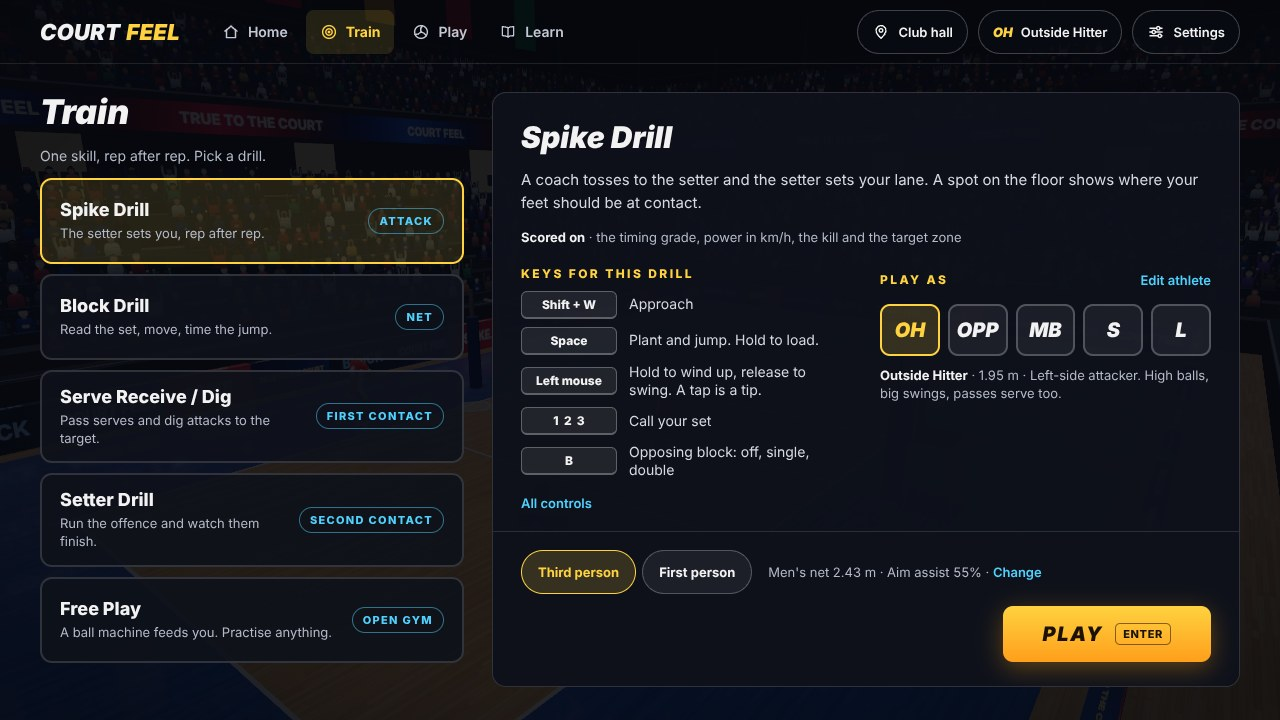
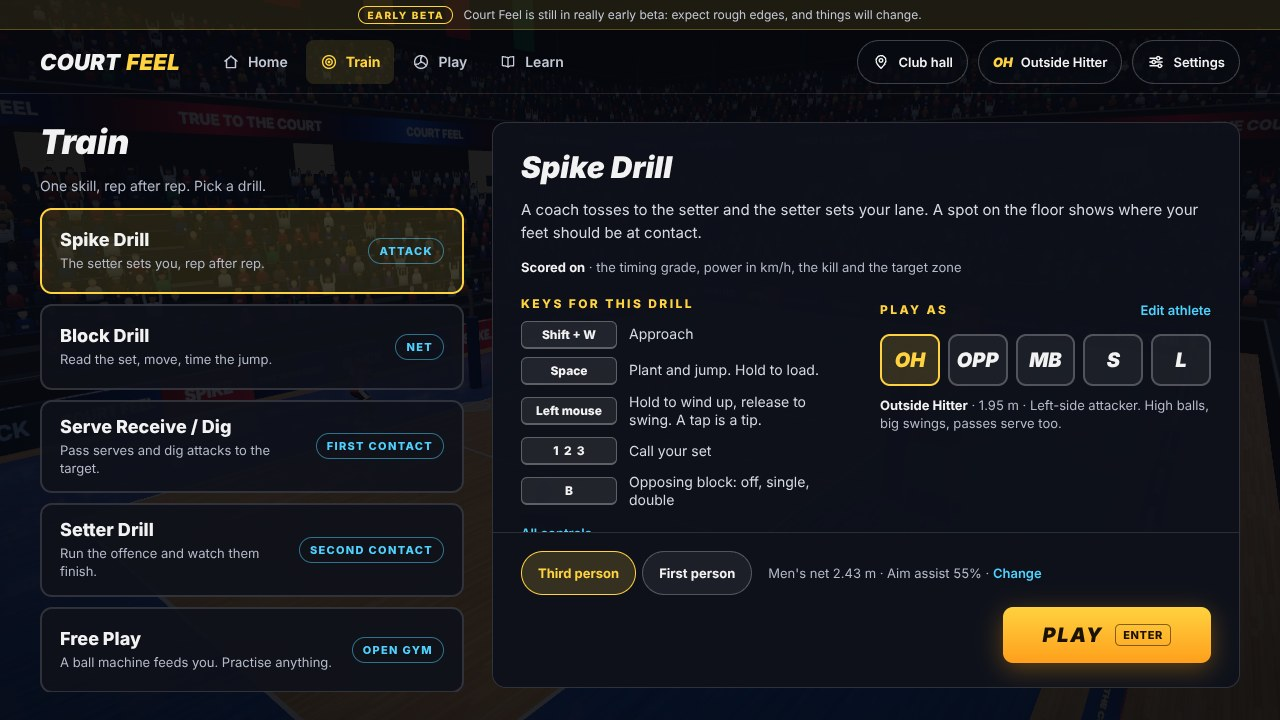
feat(start-screen): a strip across the top of the start screen says the game is in early beta
The start screen now opens with a thin gold-edged strip above the top bar:
EARLY BETA, then "Court Feel is still in really early beta: expect rough
edges, and things will change." It lives on the start screen only, so it is
never over a drill or the ball.

The e2e layout check now covers it at every phone and window size, the
start-screen feature map describes it, and the README's start-screen
screenshot is retaken with it.

Claude-Session: https://claude.ai/code/session_01UDovnHFEbJqPjLMn8NbVdb

diff --git a/src/ui/styles.css b/src/ui/styles.css
@@ -90,6 +90,11 @@ body.touchmode .set-row.only-tc { display: grid !important; }
 /* the notch and the home bar (index.html uses viewport-fit=cover) */
 .menu, .sheet { padding: env(safe-area-inset-top, 0px) env(safe-area-inset-right, 0px) env(safe-area-inset-bottom, 0px) env(safe-area-inset-left, 0px); }
 .menu[data-view='home'] { background: linear-gradient(90deg, rgba(6,8,14,0.96) 0%, rgba(6,8,14,0.9) 46%, rgba(6,8,14,0.3) 78%, rgba(6,8,14,0.05) 100%); }
+/* the early-beta strip above the top bar, on the start screen only */
+.beta { flex: none; display: flex; align-items: center; justify-content: center; gap: 10px; min-height: 30px; padding: 4px 16px;
+  background: rgba(255,210,63,0.1); border-bottom: 1px solid rgba(255,210,63,0.28); font-size: 12px; color: var(--text2); text-align: center; }
+.beta-tag { flex: none; padding: 2px 8px; border-radius: 999px; border: 1px solid var(--gold); color: var(--gold);
+  font-size: 10px; font-weight: 800; letter-spacing: 0.16em; text-transform: uppercase; }
 .topbar { flex: none; display: flex; align-items: center; gap: 28px; height: 64px; padding: 0 40px; border-bottom: 1px solid rgba(255,255,255,0.1); }
 .menu[data-view='home'] .topbar { border-bottom-color: transparent; }
 .brand { min-height: 44px; background: none; border: 0; padding: 0; font-weight: 900; font-style: italic; font-size: 22px; letter-spacing: 0.01em; white-space: nowrap; }
@@ -586,6 +591,7 @@ body.collar .t-hit.sweet { border-color: var(--gold); box-shadow: 0 0 18px rgba(
 /* the menus on a phone held sideways: the same screens, tighter */
 body.touchmode .menu button, body.touchmode .pause button, body.touchmode .sheet button { touch-action: manipulation; }
 @media (max-height: 520px) {
+  .beta { min-height: 24px; padding: 2px 16px; font-size: 11px; }
   .topbar { height: 48px; gap: 12px; padding: 0 16px; }
   .brand { font-size: 16px; }
   .nav-btn { font-size: 13px; padding: 0 10px; gap: 6px; }

diff --git a/src/ui/menu.ts b/src/ui/menu.ts
@@ -89,6 +89,21 @@ function buildTag(): HTMLElement {
   return txt('div', 'build', BUILD_LABEL);
 }
 
+/**
+ * The strip above the start screen's top bar: the game is in early beta, so a player knows the rough edges
+ * are expected and worth reporting. It is on the start screen only, never over a drill, so it never covers
+ * the ball.
+ */
+function betaBanner(): HTMLElement {
+  const bar = h('div', 'beta');
+  bar.setAttribute('role', 'note');
+  bar.append(
+    txt('b', 'beta-tag', 'Early beta'),
+    txt('span', 'beta-t', 'Court Feel is still in really early beta: expect rough edges, and things will change.'),
+  );
+  return bar;
+}
+
 /** key caps with what each does */
 function keyList(keys: readonly KeyHint[], cls = ''): HTMLElement {
   const list = h('div', `keys ${cls}`.trim());
@@ -217,7 +232,7 @@ export class Menu {
 
     // ------------------------------------------------------------ start screen
     this.start = h('div', 'menu');
-    this.start.append(this.buildTopbar());
+    this.start.append(betaBanner(), this.buildTopbar());
     const add = (id: View, el: HTMLElement) => {
       this.views.set(id, el);
       this.start.append(el);

diff --git a/.agents/skills/verify-court-feel/features/start-screen.md b/.agents/skills/verify-court-feel/features/start-screen.md
@@ -56,4 +56,5 @@ Preconditions:
 - A click on a row in Train changes what `PLAY` starts, but it is saved only when a drill starts or a position is chosen. A `Play as` chip saves the position at once, together with the drill selected at that moment and `played` unchanged. The view is saved as soon as its chip is clicked.
 - `PLAY`, Enter and double-click hand the mouse to the game (`game.pointerLocked` is `true`). A drill opened by link does not.
 - The Venue pill at the top right names the venue the court stands in and opens a list of the five. Run `court click '[aria-label^="Venue:"]'`, then `court click '.venue-opt:has-text("Seaside")'`: `court eval 'g.venue'` gives `seaside`, `saved.settings.venue` is `seaside`, the pill reads `Seaside`, the list is hidden again and the court behind the menu is the seaside. With the list open the up and down arrows walk it, Enter picks, and Esc or a press anywhere else puts it away without a change. It is the same pick as the Venue row in Settings, and it ends a link's `venue=` in the same way. On a narrow screen the pill shows its icon only.
+- A gold-edged strip above the top bar says the game is in early beta (`.beta`, `role=note`): `EARLY BETA` and `Court Feel is still in really early beta: expect rough edges, and things will change.` It is on every section of the start screen and goes with it, so it is never over a drill. Run `court eval 'document.querySelector(".beta").offsetParent !== null'`: `true` on the start screen, `false` in play. On a phone held sideways it is a little shorter.
 - The Athlete pill at the top right opens the Athlete sheet, where a card also changes the position. [Pause and settings](./pause-settings.md) drives it.

diff --git a/README.md b/README.md
@@ -115,7 +115,7 @@ Real frames from the game: no paint-overs, no staged cameras.
       <b>On your phone.</b> A joystick for your feet, drag to aim, hold to jump and hold to swing. The timing windows are the same as on a keyboard.
     </td>
     <td width="50%" valign="top">
-      <img src="docs/screenshots/start-screen.jpg" alt="Start screen, Train: the five drills in a list, the Spike Drill's panel with its own keys, the five positions to play it as, and PLAY; the venue, athlete and settings pills at the top right">
+      <img src="docs/screenshots/start-screen.jpg" alt="Start screen, Train: the early beta strip across the top, the five drills in a list, the Spike Drill's panel with its own keys, the five positions to play it as, and PLAY; the venue, athlete and settings pills at the top right">
       <b>Pick a drill.</b> Each drill shows what it scores, its own keys and the position you play it as.
     </td>
   </tr>
